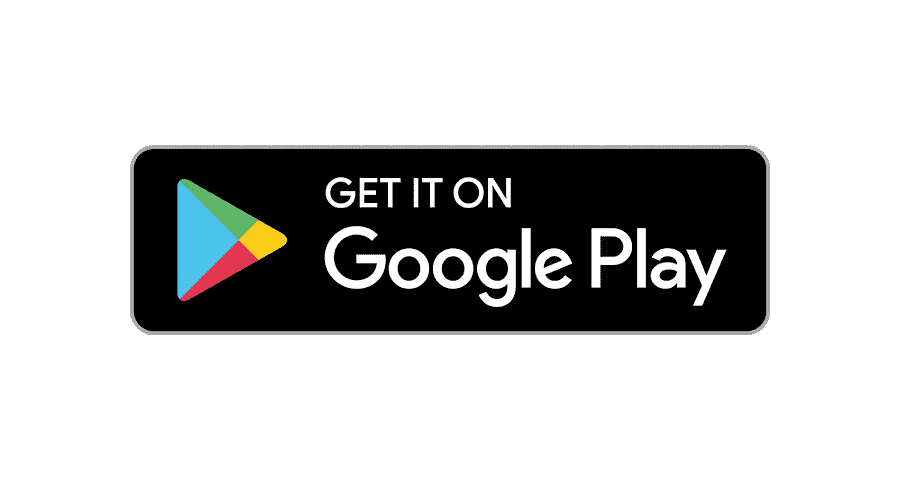
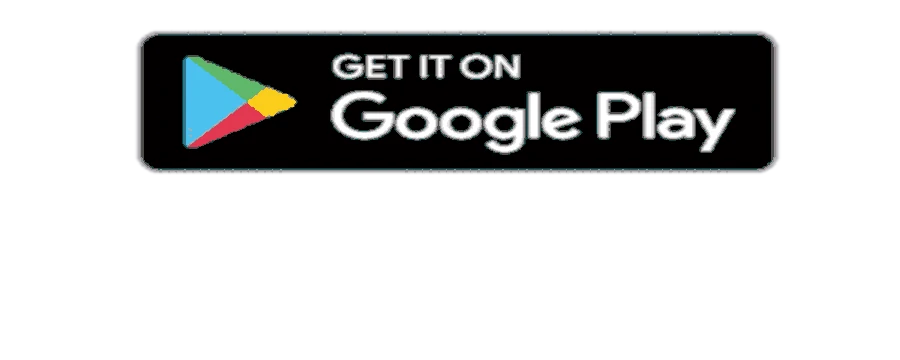
Atualizando imagens e construindo o CSS do Html

diff --git a/Recriando_a_pag_inicial_do_Instagram/style.css b/Recriando_a_pag_inicial_do_Instagram/style.css
@@ -32,7 +32,7 @@ body {
 }
 
 .instagram-phone img {
-    height: 50rem;
+    height: 40rem;
 }
 
 .instagram-continue {
@@ -69,4 +69,85 @@ body {
     align-items: center;
     border-radius: 50%;
     overflow: hidden;
+}
+
+.profile-photo img {
+    height: 6rem;
+}
+
+.instagram-login {
+    background-color: #0095f6;
+    color: #fff;
+    padding: 8px;
+    border-radius: 4px;
+}
+
+.instagram-logout {
+    color: #0095f6;
+    margin-top: 1rem;
+}
+
+.not-account {
+    color: rgb(160, 160, 160);
+}
+
+.link-blue {
+    color: #0095f6;
+}
+
+.get-the-app {
+    display: flex;
+    flex-direction: column;
+    align-items: center;
+    justify-content: center;
+    width: 100%;
+    padding: 1.3rem 0;
+}
+
+.download {
+    display: flex;
+    width: 100%;
+    justify-content: space-evenly;
+    align-items: center;
+    padding: 1rem;
+}
+
+.app-download {
+    height: 3rem;
+    width: 10rem;
+    background-size: cover;
+}
+
+.app-download:nth-child(1) {
+    background-image: url('./img/apple-button.png');
+}
+
+.app-download:nth-child(2) {
+    background-image: url('./img/googleplay-button.png');
+}
+
+/* media queries */
+
+@media (max-width: 950px) {
+    .instagram-wrapper {
+        width: 90%;
+    }
+}
+
+@media (max-width: 600px) {
+    .instagram-wrapper {
+        width: 90%;
+    }
+    
+    .instagram-phone {
+        display: none;
+    }
+    
+    .instagram-continue {
+        width: 100%;
+    }
+
+    .group {
+        border: 1px solid transparent;
+    }
 }

diff --git a/Recriando_a_pag_inicial_do_Instagram/index.html b/Recriando_a_pag_inicial_do_Instagram/index.html
@@ -36,7 +36,7 @@
             </div>
             <div class="group">
                 <p class="not-account">Não é Theds42?</p>
-                <p class="notaccount">
+                <p class="not-account">
                     <span class="link-blue">Alternar contas</span>
                     ou 
                     <span class="link-blue">Inscreva-se</span>
